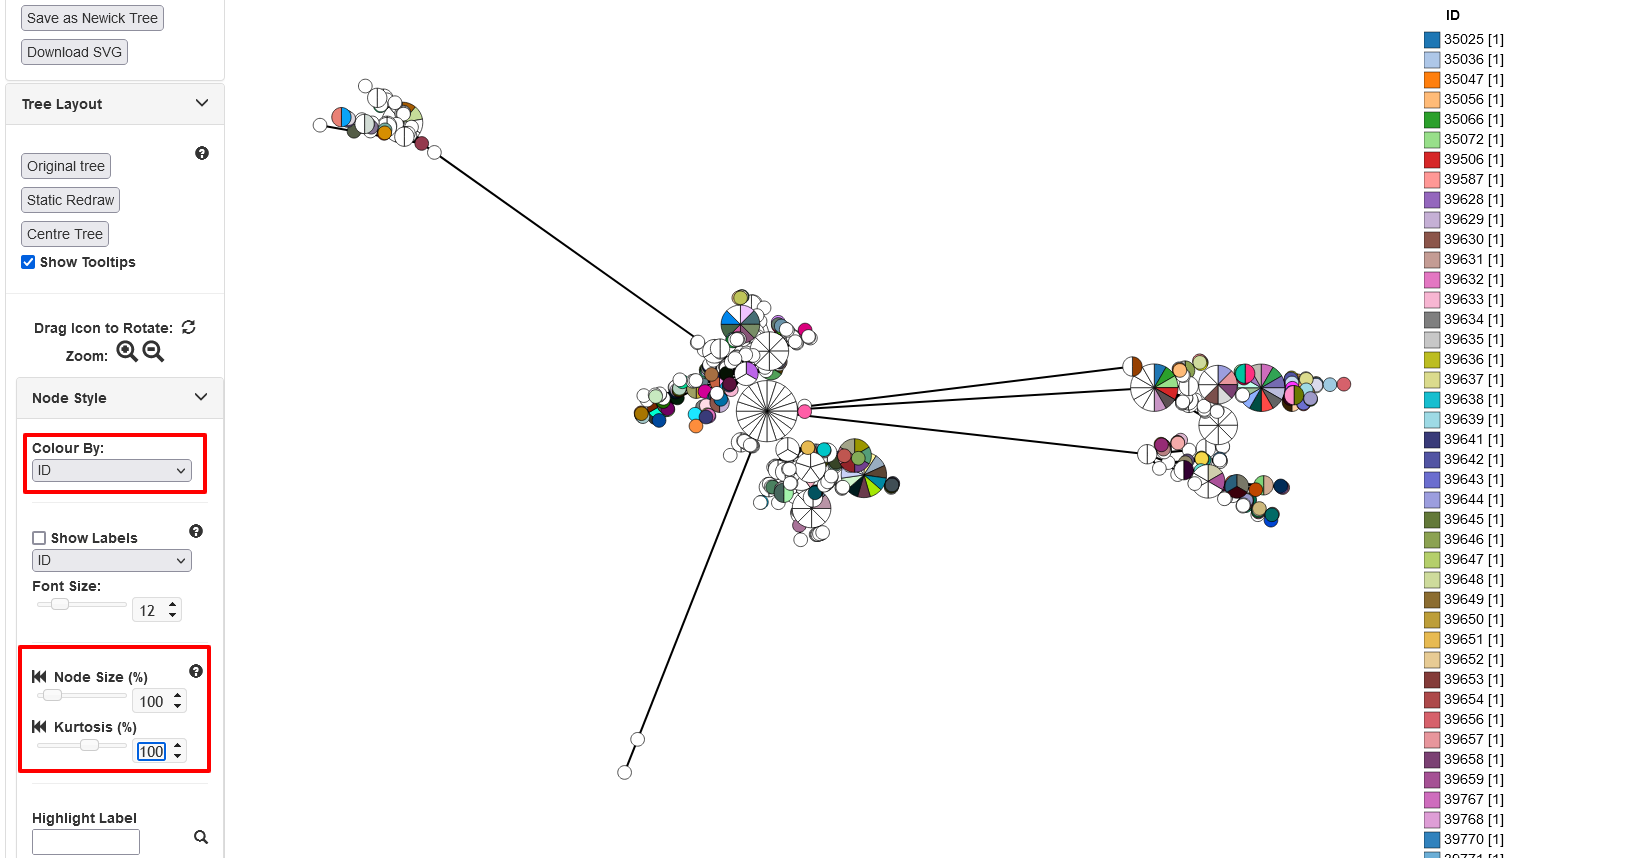
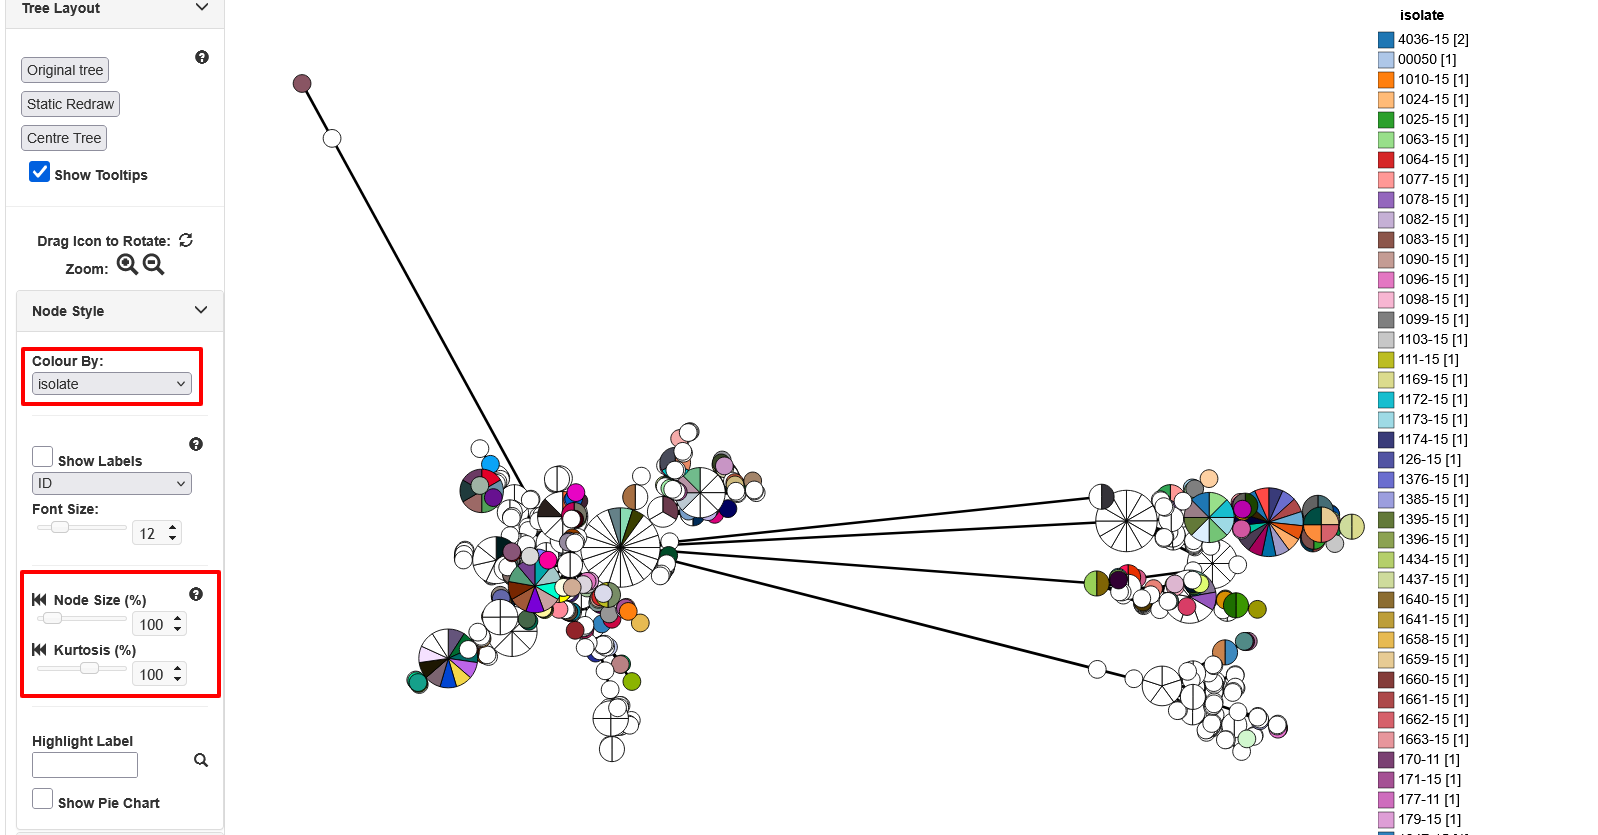
Update PubMLST practical to use cgMLST v3 and LIN codes.

diff --git a/course_modules_2025/bioinformatics/bioinformatics_practical_manual.md b/course_modules_2025/bioinformatics/bioinformatics_practical_manual.md
@@ -484,11 +484,11 @@ You should get the following page below:
 
 ![](images/pubmlst13.png)
 
-We will compare the isolates using the ‘N. meningitidis cgMLST v2’ scheme. This consists of >1400 loci which have been identified as core genes - defined as those present in more than 95% of the meningococcal genomes examined (4). 
+We will compare the isolates using the ‘N. meningitidis cgMLST v3’ scheme. This consists of >1300 loci which have been identified as core genes - defined as those present in more than 98% of the meningococcal genomes examined (4). 
 
-The resulting minimum-spanning tree can be annotated using any associated metadata, which we can select in the ‘Include fields’ section. Using the CTRL (or CMD key if on a Mac) select the following options: ‘capsule group’; ‘clonal complex (MLST)’; ‘country’; ‘disease’; ‘ST (MLST)’; and ‘year’. Click submit. 
+The resulting minimum-spanning tree can be annotated using any associated metadata, which we can select in the ‘Include fields’ section. Select the following options: ‘capsule group’; ‘clonal complex (MLST)’; ‘country’; ‘disease’; ‘ST (MLST)’; ‘year’; and 'LINcode (N. meningitidis cgMLST v3). Click submit. 
 
-The job should take less than 2 minutes to complete. On the resulting page. Click on ‘Launch GrapeTree’.
+The job should take less than a minute to complete. On the resulting page. Click on ‘Launch GrapeTree’.
 
 The following MST will be visible. Each node represents one isolate and clusters of nodes indicate isolates which share allelic profiles in the core genome and are therefore related. Node colours can be changed by expanding the 'Tree Layout' menu and  selecting the metadata field from the 'Node style' dropdown box. Node size can also be altered by dragging the bars on the 'Node size' and 'Kurtosis' (node size relative to number of strains) bars.
 
@@ -512,6 +512,14 @@ Colour schemes can also be altered. Colour the nodes by year, then right click o
 
 4.	Based on this information what can you deduce about the ST-10217 clonal complex?
 
+Experiment with colouring nodes by LIN codes at different thresholds and compare these with clonal complex. You should see that the first two prefix values, e.g. 57_1, clearly group the complexes.
+
+![](images/pubmlst16a.png)
+
+As more of the LIN code threshold prefixes are used, you should see that the complex clusters get further differentiated. The following image uses the first 8 thresholds.
+
+![](images/pubmlst16b.png)
+
 #### Genome Comparator
 Genomes can also be compared using the Genome Comparator tool. This compares isolates using a gene-by-gene method, generates a NeighborNet tree and in addition provides information on the number and precise identification of locus differences among isolates. This tool works particularly well for more highly related isolates. We will use this to analyze ST-10217 isolates. 
 
@@ -523,7 +531,7 @@ This will return 126 records. At the bottom of the page select ‘Genome Compara
 
 ![](images/pubmlst18.png)
 
-On the following page, select the ‘N. meningitidis cgMLST v2’ scheme. Additional isolate identifiers can be included in the analysis although this should be kept to a minimum to prevent the resulting tree becoming overcluttered. Select country and year. Click ‘Submit’.
+On the following page, select the ‘N. meningitidis cgMLST v3’ scheme. Additional isolate identifiers can be included in the analysis although this should be kept to a minimum to prevent the resulting tree becoming overcluttered. Select isolate, country, and year. Click ‘Submit’.
 
 ![](images/pubmlst19.png)
 
